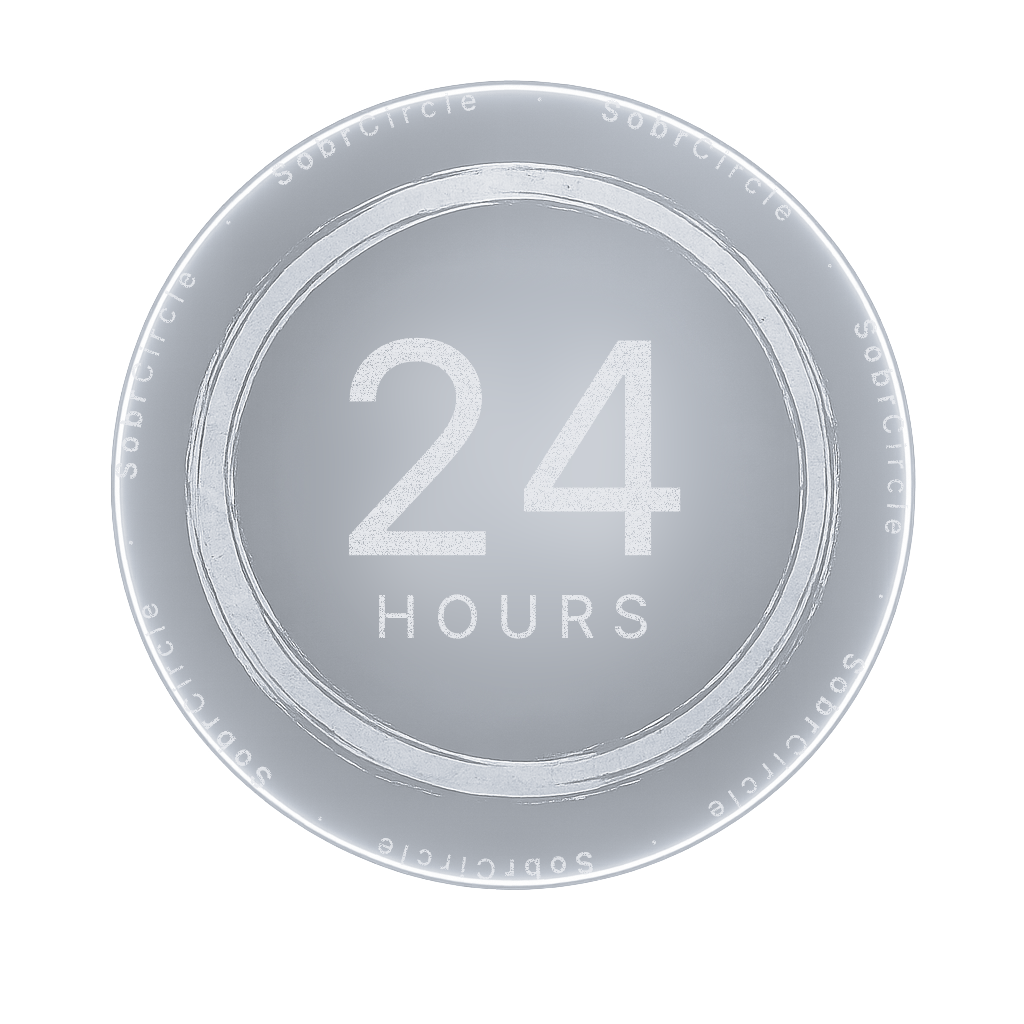
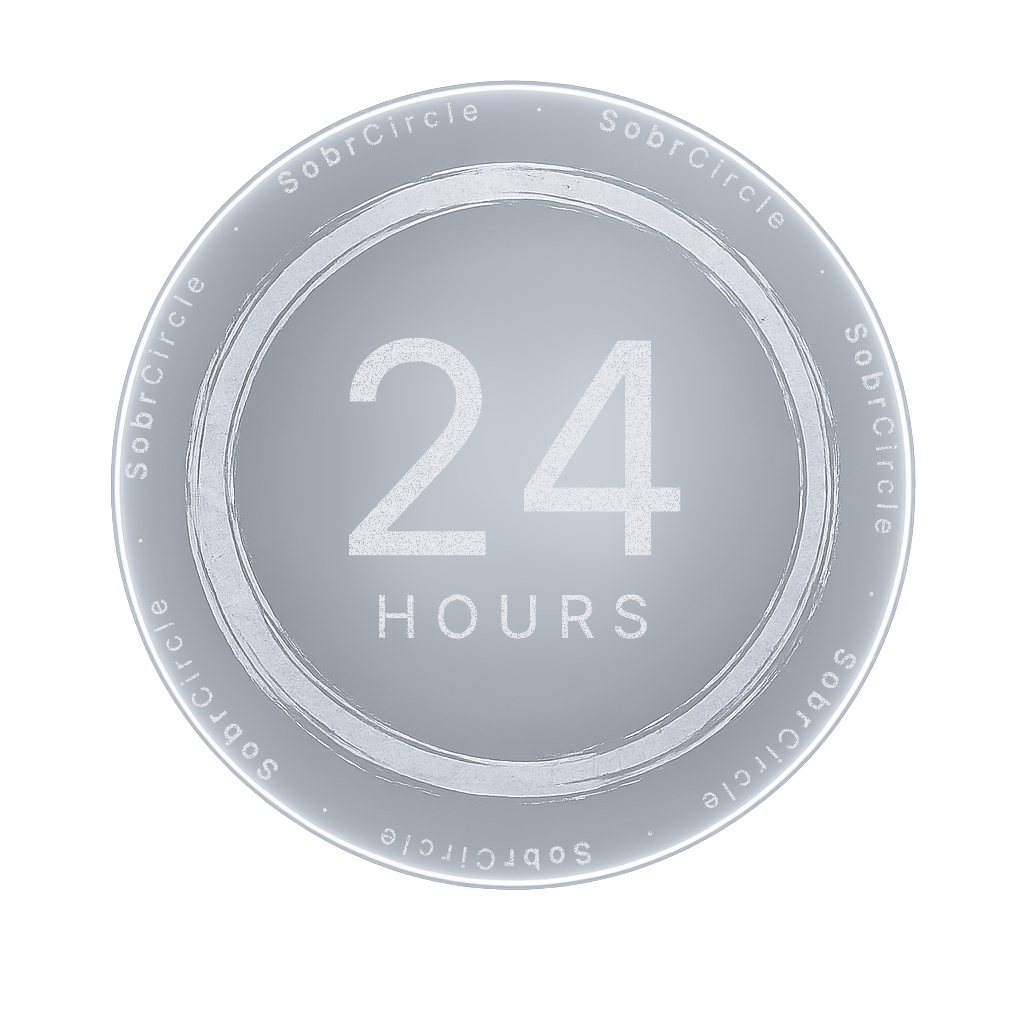
Pull SobrCircle text in from the white halo line
Drops radius from 386 to 376 so the text sits clear of the bright outer
ring. Top of the 28px characters now stays inside the clean tinted band
instead of brushing against the white halo line.

https://claude.ai/code/session_01TqmVcPLJNZuf7Q6XCPWgNk

diff --git a/scripts/generate-badges.ts b/scripts/generate-badges.ts
@@ -270,9 +270,9 @@ function drawMicroTypography(ctx: SKRSContext2D, hex: string) {
   const lb = Math.round(b + (255 - b) * k)
   const fill = `rgba(${lr}, ${lg}, ${lb}, 0.95)`
 
-  // In the clean blue band between the brushwork's outer edge (~r=378)
-  // and the bright white halo line (~r=395). Text rides centered at r=386.
-  const radius = 386
+  // In the clean tinted band, pulled in slightly so the top of the
+  // text doesn't kiss the bright white halo line.
+  const radius = 376
   const fontSize = 28
 
   const segments: { text: string; weight: number }[] = []
